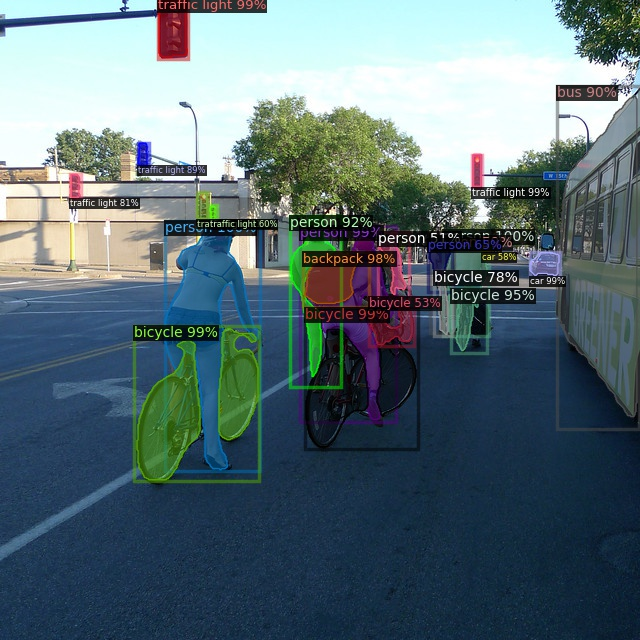
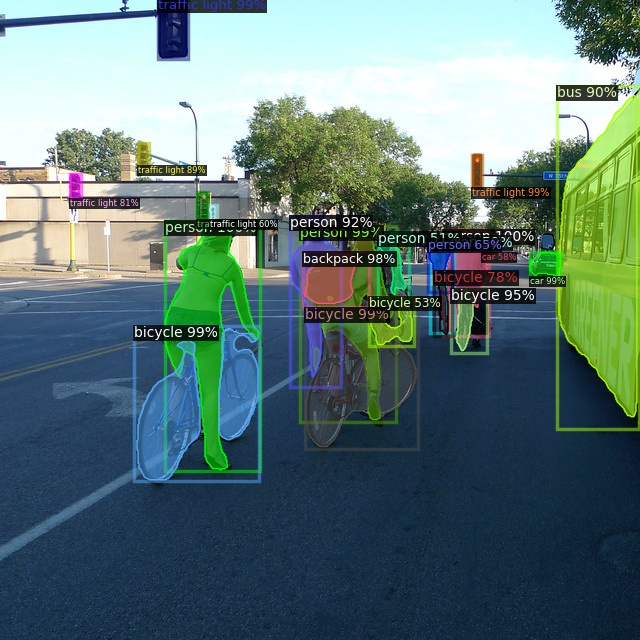
Code update
no more
by da.li
2020/02/27

diff --git a/instance_segmentation/mask_rcnn_coco/InstanceSegmentation.py b/instance_segmentation/mask_rcnn_coco/InstanceSegmentation.py
@@ -71,7 +71,11 @@ class ISEEInstanceSegmentation(ISEEVisAlgIntf):
         cfg.MODEL.WEIGHTS = params_dict['model_path'][0]
         cfg.MODEL.ROI_HEADS.SCORE_THRESH_TEST = params_dict['reserved']['roi_threshold']
         cfg.freeze()
-        self._cfg = cfg # For showing the segmentation results.
+        # For showing the segmentation results.
+        metadata = MetadataCatalog.get(
+            cfg.DATASETS.TEST[0] if len(cfg.DATASETS.TEST) else "__unused"
+        )
+        self._metadata = metadata
         # Create predictor
         self._predictor = DefaultPredictor(cfg)
         # (user custom code END)
@@ -102,6 +106,7 @@ class ISEEInstanceSegmentation(ISEEVisAlgIntf):
         # (user custom code START)
         # An EXAMPLE using detectron2
         output_path = kwargs['output']
+        metadata = self._metadata
         segment_res = []
         cnt = 0
         for img in imgs_data:
@@ -110,9 +115,6 @@ class ISEEInstanceSegmentation(ISEEVisAlgIntf):
             segment_res.append(out)
             # To write the segmentation results to an image.
             if output_path is not None:
-                metadata = MetadataCatalog.get(
-                  self._cfg.DATASETS.TEST[0] if len(self._cfg.DATASETS.TEST) else "__unused"
-                )
                 img = img[:, :, ::-1]
                 vis = Visualizer(img, metadata)
                 instances = out['instances'].to('cpu')

diff --git a/panoptic_segmentation/panoptic_fpn_coco/PanopticSegmentation.py b/panoptic_segmentation/panoptic_fpn_coco/PanopticSegmentation.py
@@ -73,7 +73,11 @@ class ISEEPanopticSegmentation(ISEEVisAlgIntf):
         cfg.MODEL.PANOPTIC_FPN.COMBINE.INSTANCES_CONFIDENCE_THRESH = \
             params_dict['reserved']['panoptic_threshold']
         cfg.freeze()
-        self._cfg = cfg # For showing the segmentation results.
+        # For showing the segmentation results.
+        metadata = MetadataCatalog.get(
+          cfg.DATASETS.TEST[0] if len(cfg.DATASETS.TEST) else "__unused"
+        )
+        self._metadata = metadata
         # Create predictor
         self._predictor = DefaultPredictor(cfg)
         # (user custom code END)
@@ -104,6 +108,7 @@ class ISEEPanopticSegmentation(ISEEVisAlgIntf):
         # (user custom code START)
         # An EXAMPLE using detectron2
         output_path = kwargs['output']
+        metadata = self._metadata
         segment_res = []
         cnt = 0
         for img in imgs_data:
@@ -113,9 +118,6 @@ class ISEEPanopticSegmentation(ISEEVisAlgIntf):
             segment_res.append(out)
             # To write the segmentation results to an image.
             if output_path is not None:
-                metadata = MetadataCatalog.get(
-                  self._cfg.DATASETS.TEST[0] if len(self._cfg.DATASETS.TEST) else "__unused"
-                )
                 img = img[:, :, ::-1]
                 vis = Visualizer(img, metadata)
                 vis_img = vis.draw_panoptic_seg_predictions(

diff --git a/keypoints_detection/keypoint_rcnn_coco/KeypointsDetection.py b/keypoints_detection/keypoint_rcnn_coco/KeypointsDetection.py
@@ -73,7 +73,11 @@ class ISEEKeypointsDetection(ISEEVisAlgIntf):
         cfg.MODEL.WEIGHTS = params_dict['model_path'][0]
         cfg.MODEL.ROI_HEADS.SCORE_THRESH_TEST = params_dict['reserved']['roi_threshold']
         cfg.freeze()
-        self._cfg = cfg # For showing the detection results.
+        # For showing the detection results.
+        metadata = MetadataCatalog.get(
+          cfg.DATASETS.TEST[0] if len(cfg.DATASETS.TEST) else "__unused"
+        )
+        self._metadata = metadata
         # Create detector
         self._detector = DefaultPredictor(cfg)
         # (user custom code END)
@@ -104,6 +108,7 @@ class ISEEKeypointsDetection(ISEEVisAlgIntf):
         # (user custom code START)
         # An EXAMPLE using detectron2
         output_path = kwargs['output']
+        metadata = self._metadata
         detect_res = []
         cnt = 0
         for img in imgs_data:
@@ -112,9 +117,6 @@ class ISEEKeypointsDetection(ISEEVisAlgIntf):
             detect_res.append(out)
             # To write the detection results to image.
             if output_path is not None:
-                metadata = MetadataCatalog.get(
-                  self._cfg.DATASETS.TEST[0] if len(self._cfg.DATASETS.TEST) else "__unused"
-                )
                 img = img[:, :, ::-1]
                 vis = Visualizer(img, metadata)
                 instances = out['instances'].to('cpu')

diff --git a/object_detection/faster_rcnn_coco/ObjectDetection.py b/object_detection/faster_rcnn_coco/ObjectDetection.py
@@ -72,7 +72,11 @@ class ISEEObjectDetection(ISEEVisAlgIntf):
         cfg.MODEL.WEIGHTS = params_dict['model_path'][0]
         cfg.MODEL.ROI_HEADS.SCORE_THRESH_TEST = params_dict['reserved']['roi_threshold']
         cfg.freeze()
-        self._cfg = cfg # For showing the detection results.
+        # For showing the detection results.
+        metadata = MetadataCatalog.get(
+          cfg.DATASETS.TEST[0] if len(cfg.DATASETS.TEST) else "__unused"
+        )
+        self._metadata = metadata
         # Create detector
         self._detector = DefaultPredictor(cfg)
         # (user custom code END)
@@ -103,6 +107,7 @@ class ISEEObjectDetection(ISEEVisAlgIntf):
         # (user custom code START)
         # An EXAMPLE using detectron2
         output_path = kwargs['output']
+        metadata = self._metadata
         detect_res = []
         cnt = 0
         for img in imgs_data:
@@ -111,9 +116,6 @@ class ISEEObjectDetection(ISEEVisAlgIntf):
             detect_res.append(out)
             # To write the detection results to an image.
             if output_path is not None:
-                metadata = MetadataCatalog.get(
-                  self._cfg.DATASETS.TEST[0] if len(self._cfg.DATASETS.TEST) else "__unused"
-                )
                 img = img[:, :, ::-1]
                 vis = Visualizer(img, metadata)
                 instances = out['instances'].to('cpu')

diff --git a/instance_segmentation/README.md b/instance_segmentation/README.md
@@ -6,8 +6,8 @@ The text illustrates how to achieve the instance segmentation class to run on IS
 * The project folder should include the dependencies to complete the uploaded method.
 * To achieve the Instance Segmentation, one should complete the content provided in "InstanceSegmentation.py":
   + The class of ISEEInstanceSegmentation is inherented from the abstract class "ISEEVisAlgIntf"
-      I.  Don't change the class name and functions name.
-      II. Don't change the order of the parameters in the fucntions.
+    - Don't change the class name and functions name.
+    - Don't change the order of the parameters in the fucntions.
   + The return of the function "getResults" will influence the data management in ISEE, so the results should follow the format:
 
 

diff --git a/panoptic_segmentation/README.md b/panoptic_segmentation/README.md
@@ -6,8 +6,8 @@ The text illustrates how to achieve the panoptic segmentation class to run on IS
 * The project folder should include the dependencies to complete the uploaded method.
 * To achieve the Panoptic Segmentation, one should complete the content provided in "PanopticSegmentation.py":
   + The class of ISEEPanopticSegmentation is inherented from the abstract class "ISEEVisAlgIntf"
-      I.  Don't change the class name and functions name.
-      II. Don't change the order of the parameters in the fucntions.
+    - Don't change the class name and functions name.
+    - Don't change the order of the parameters in the fucntions.
   + The return of the function "getResults" will influence the data management in ISEE, so the results should follow the format:
 
 

diff --git a/keypoints_detection/README.md b/keypoints_detection/README.md
@@ -6,8 +6,8 @@ The text illustrates how to add custom keypoints detection class to run on ISEE.
 * The project folder should include the dependencies to complete the uploaded method.
 * To achieve Keypoints Detection, one should complete the content provided in "KeypointsDetection.py":
   + The class of ISEEKeypointsDetection is inherented from the abstract class "ISEEVisAlgIntf"
-      I.  Don't change the class name and functions name.
-      II. Don't change the order of the parameters in the fucntions.
+    - Don't change the class name and functions name.
+    - Don't change the order of the parameters in the fucntions.
   + The return of the function "getResults" will influence the data management in ISEE, so the results should follow the format:
 
 

diff --git a/object_detection/README.md b/object_detection/README.md
@@ -6,8 +6,8 @@ The text illustrates how to add custom object detection class to run on ISEE.
 * The project folder should include the dependencies to complete the uploaded method.
 * To achieve Object Detection, one should complete the content provided in "ObjectDetection.py":
   + The class of ISEEObjectDetection is inherented from the abstract class "ISEEVisAlgIntf"
-      I.  Don't change the class name and functions name.
-      II. Don't change the order of the parameters in the fucntions.
+    - Don't change the class name and functions name.
+    - Don't change the order of the parameters in the fucntions.
   + The return of the function "getResults" will influence the data management in ISEE, so the results should follow the format:
 
 
